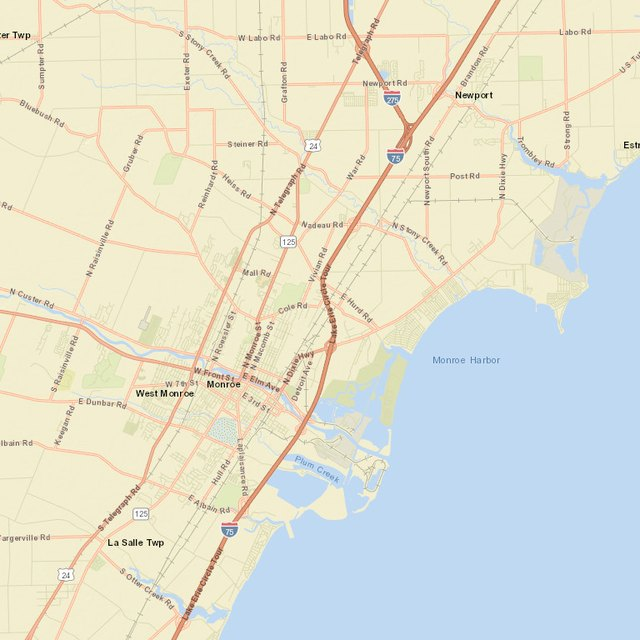
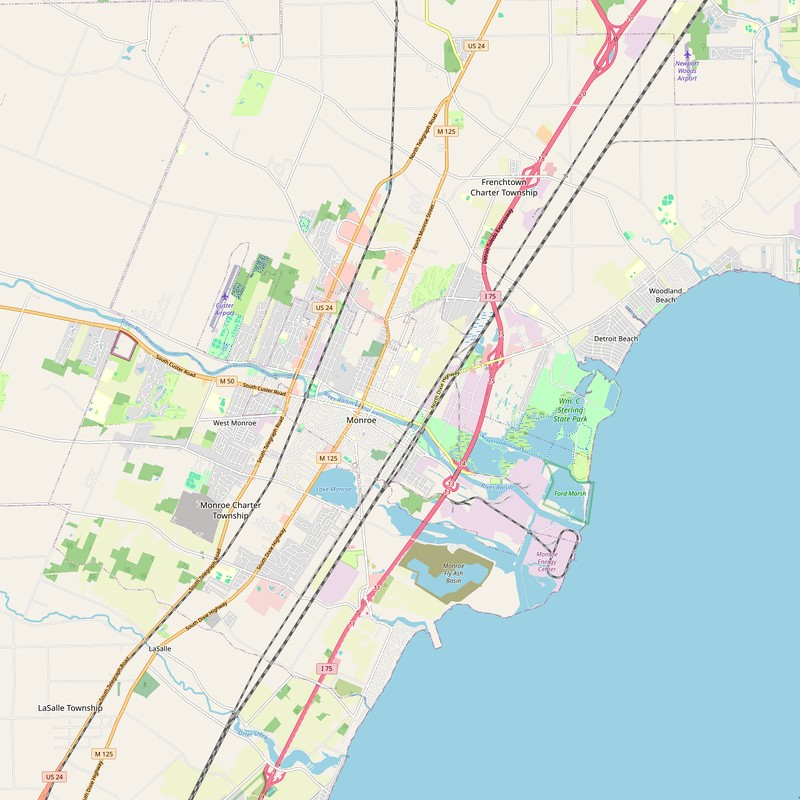
Make Local Falcon grid maps readable by dropping the washout.
Replace dimmed underlays with sharper map tiles and remove CSS filters/overlays that were hiding roads and labels.

diff --git a/css/pages/niche-landing.css b/css/pages/niche-landing.css
@@ -5675,12 +5675,13 @@ body.jcp-landing-chrome-hidden .jcp-footer-landing-copy {
   display: block;
   aspect-ratio: 1;
   width: 100%;
-  max-width: 220px;
+  max-width: 248px;
   margin: 0 auto;
   overflow: hidden;
   border-radius: 10px;
-  border: 1px solid rgba(148, 163, 184, 0.22);
-  background: #0b1220;
+  border: 1px solid rgba(148, 163, 184, 0.28);
+  background: #e8eef5;
+  box-shadow: 0 8px 22px rgba(15, 23, 42, 0.12);
 }
 
 :is(.jcp-page-campaign, .jcp-home) .jcp-lf-grid__map {
@@ -5690,7 +5691,9 @@ body.jcp-landing-chrome-hidden .jcp-footer-landing-copy {
   height: 100%;
   object-fit: cover;
   object-position: center;
-  filter: saturate(0.9) contrast(1.04) brightness(0.92);
+  /* Keep the real map crisp — no washout / dimming */
+  filter: none;
+  opacity: 1;
   z-index: 0;
 }
 
@@ -5699,12 +5702,13 @@ body.jcp-landing-chrome-hidden .jcp-footer-landing-copy {
   z-index: 1;
   display: grid;
   grid-template-columns: repeat(7, minmax(0, 1fr));
-  gap: 3px;
-  padding: 7px;
+  gap: 4px;
+  padding: 8px;
   width: 100%;
   height: 100%;
   box-sizing: border-box;
-  background: linear-gradient(180deg, rgba(15, 23, 42, 0.12) 0%, rgba(15, 23, 42, 0.28) 100%);
+  /* Transparent so roads/labels show between pins */
+  background: transparent;
 }
 
 :is(.jcp-page-campaign, .jcp-home) .jcp-lf-grid:not(.jcp-lf-grid--mapped) .jcp-lf-grid__cells {
@@ -5719,8 +5723,8 @@ body.jcp-landing-chrome-hidden .jcp-footer-landing-copy {
   aspect-ratio: 1;
   border-radius: 50%;
   box-shadow:
-    0 1px 2px rgba(0, 0, 0, 0.35),
-    inset 0 0 0 1px rgba(255, 255, 255, 0.18);
+    0 1px 3px rgba(0, 0, 0, 0.45),
+    inset 0 0 0 1px rgba(255, 255, 255, 0.22);
 }
 
 :is(.jcp-page-campaign, .jcp-home) .jcp-lf-grid__cell.is-rank-top {

diff --git a/assets/jcp-sales-tool/styles.css b/assets/jcp-sales-tool/styles.css
@@ -1077,12 +1077,13 @@ body.is-presenting .plan-layout:has(.plan-controls.rep-only) .recommendation {
   display: block;
   aspect-ratio: 1;
   width: 100%;
-  max-width: 168px;
+  max-width: 196px;
   margin: 0 auto;
   overflow: hidden;
   border-radius: 10px;
-  border: 1px solid rgba(15, 23, 42, 0.12);
-  background: #0b1220;
+  border: 1px solid rgba(15, 23, 42, 0.14);
+  background: #e8eef5;
+  box-shadow: 0 6px 18px rgba(15, 23, 42, 0.1);
 }
 .jcp-lf-grid__map {
   position: absolute;
@@ -1090,7 +1091,8 @@ body.is-presenting .plan-layout:has(.plan-controls.rep-only) .recommendation {
   width: 100%;
   height: 100%;
   object-fit: cover;
-  filter: saturate(.9) contrast(1.04) brightness(.92);
+  filter: none;
+  opacity: 1;
   z-index: 0;
 }
 .jcp-lf-grid__cells {
@@ -1098,19 +1100,19 @@ body.is-presenting .plan-layout:has(.plan-controls.rep-only) .recommendation {
   z-index: 1;
   display: grid;
   grid-template-columns: repeat(7, minmax(0, 1fr));
-  gap: 3px;
-  padding: 7px;
+  gap: 4px;
+  padding: 8px;
   width: 100%;
   height: 100%;
   box-sizing: border-box;
-  background: linear-gradient(180deg, rgba(15, 23, 42, .12), rgba(15, 23, 42, .28));
+  background: transparent;
 }
 .jcp-lf-grid__cell {
   display: block;
   width: 100%;
   aspect-ratio: 1;
   border-radius: 50%;
-  box-shadow: 0 1px 2px rgba(0,0,0,.35), inset 0 0 0 1px rgba(255,255,255,.18);
+  box-shadow: 0 1px 3px rgba(0,0,0,.45), inset 0 0 0 1px rgba(255,255,255,.22);
 }
 .jcp-lf-grid__cell.is-rank-top { background: radial-gradient(circle at 35% 30%, #4ade80, #16a34a 55%, #15803d); }
 .jcp-lf-grid__cell.is-rank-mid { background: radial-gradient(circle at 35% 30%, #fcd34d, #f59e0b 60%, #d97706); }
